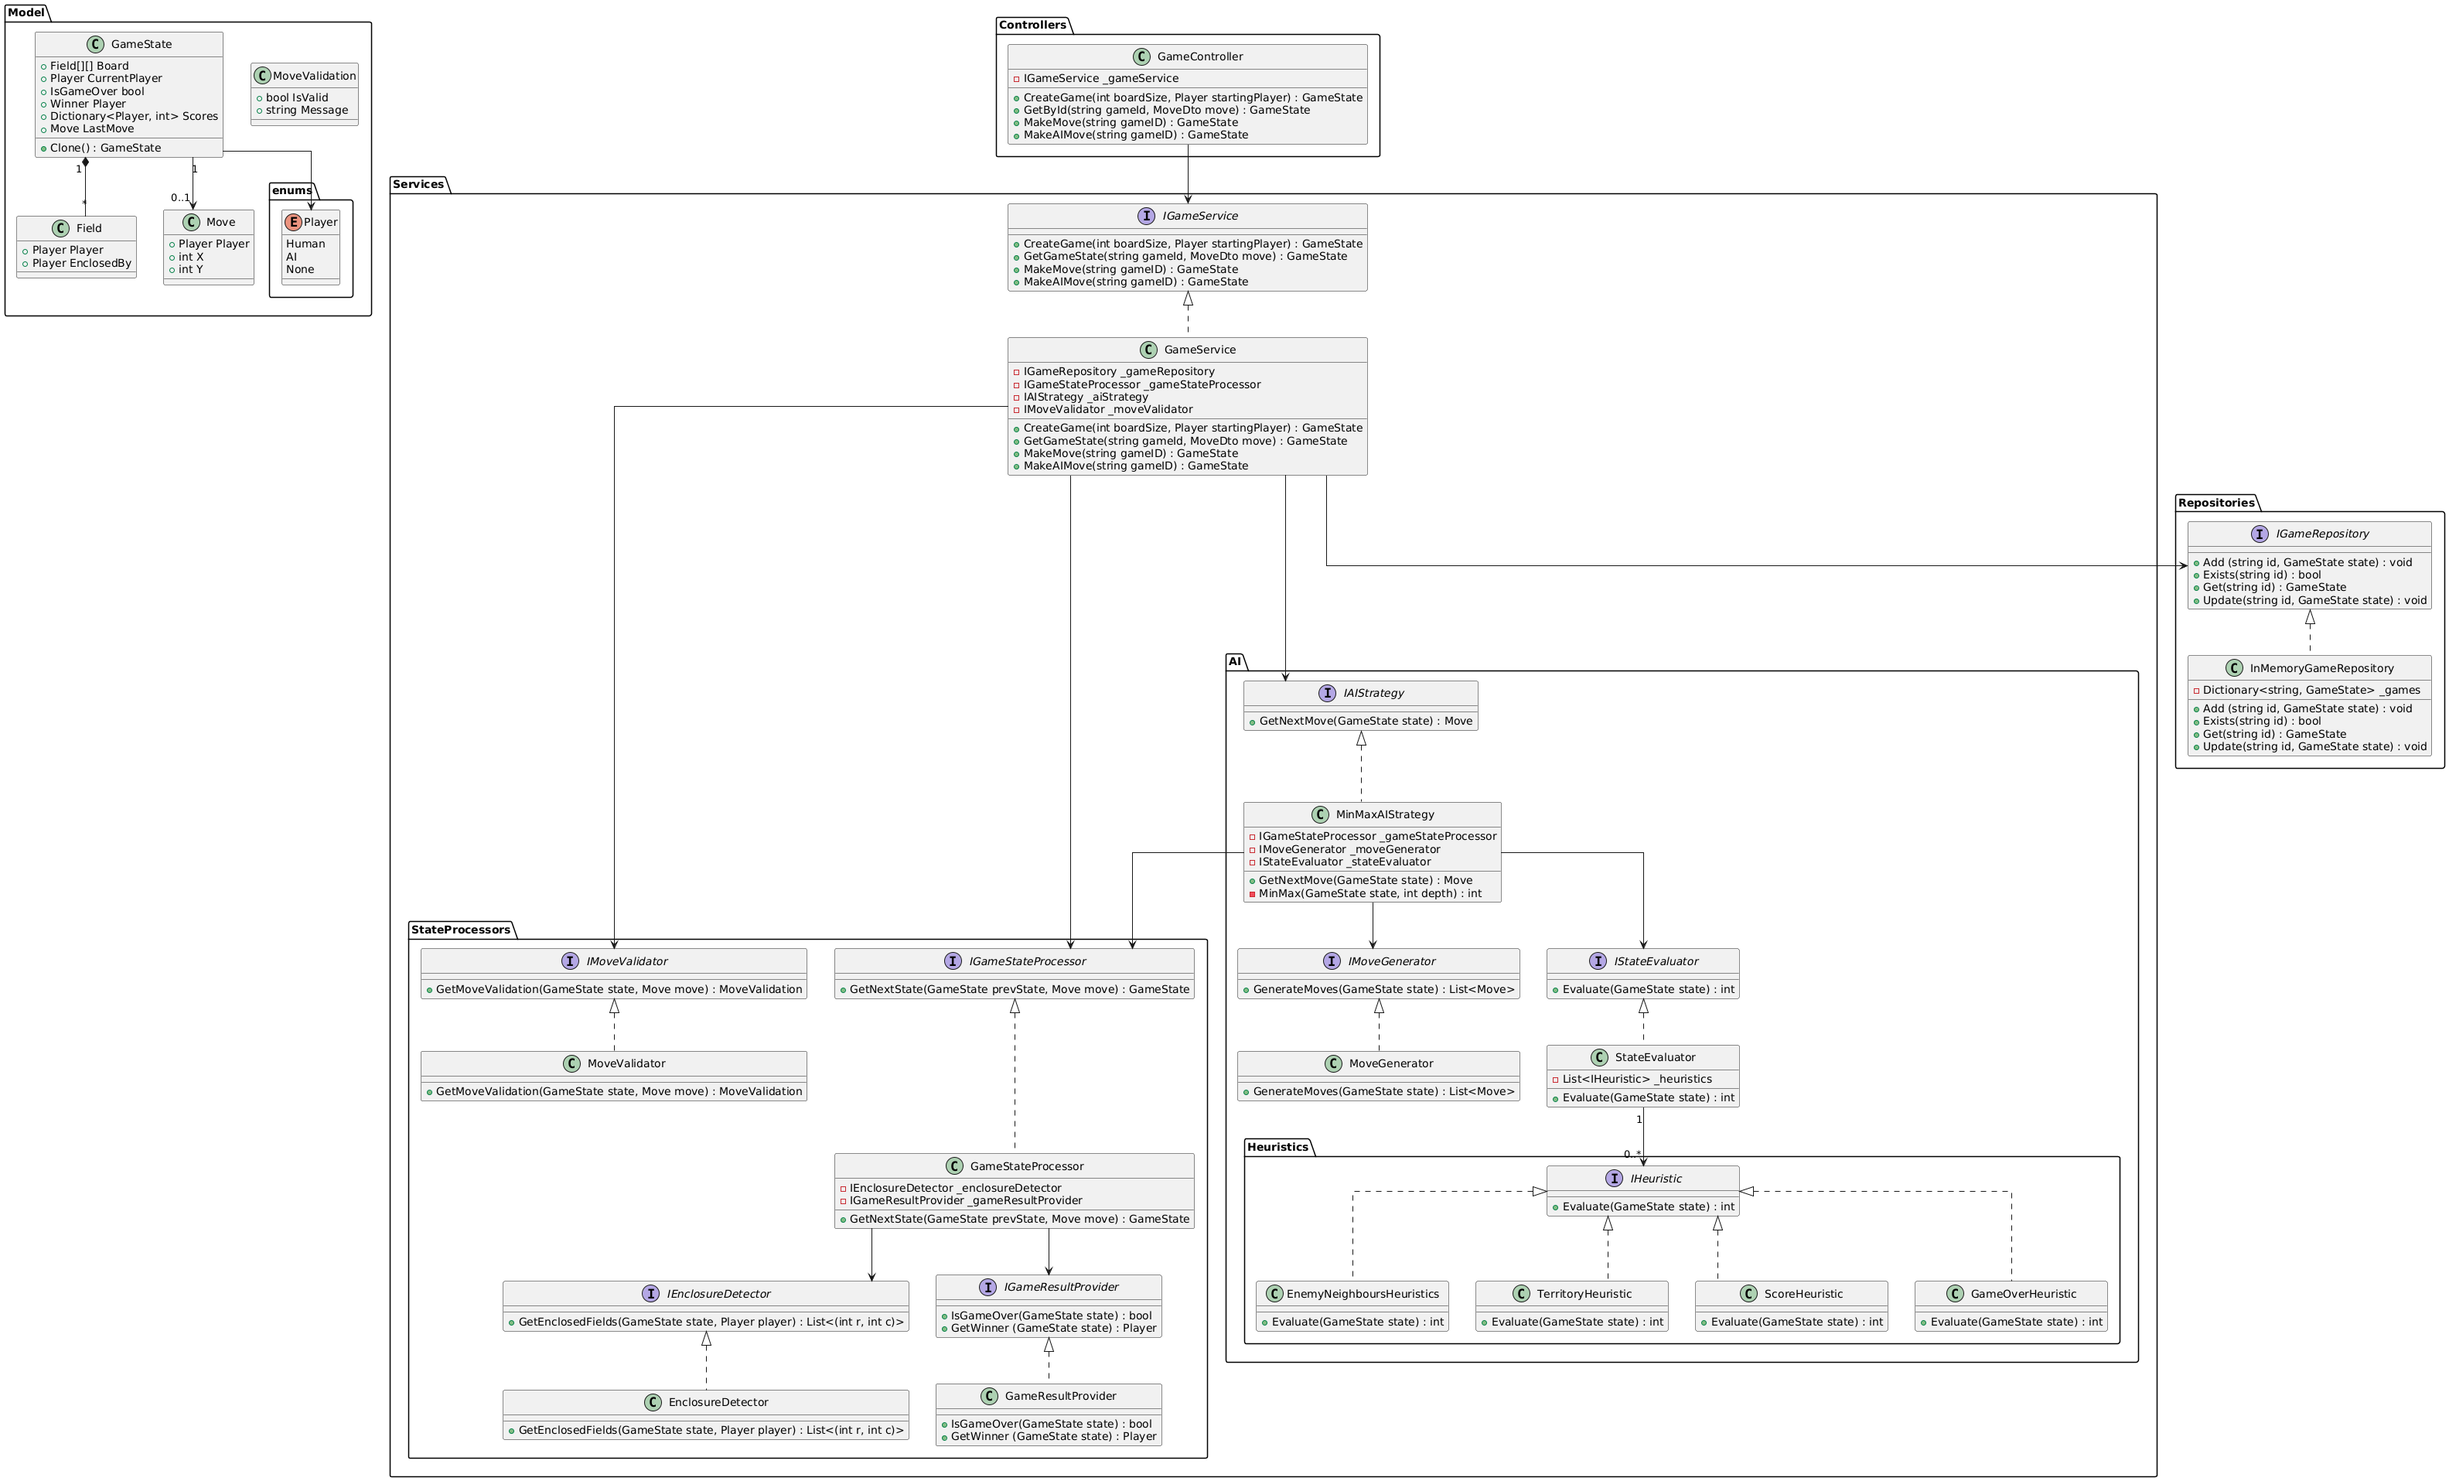
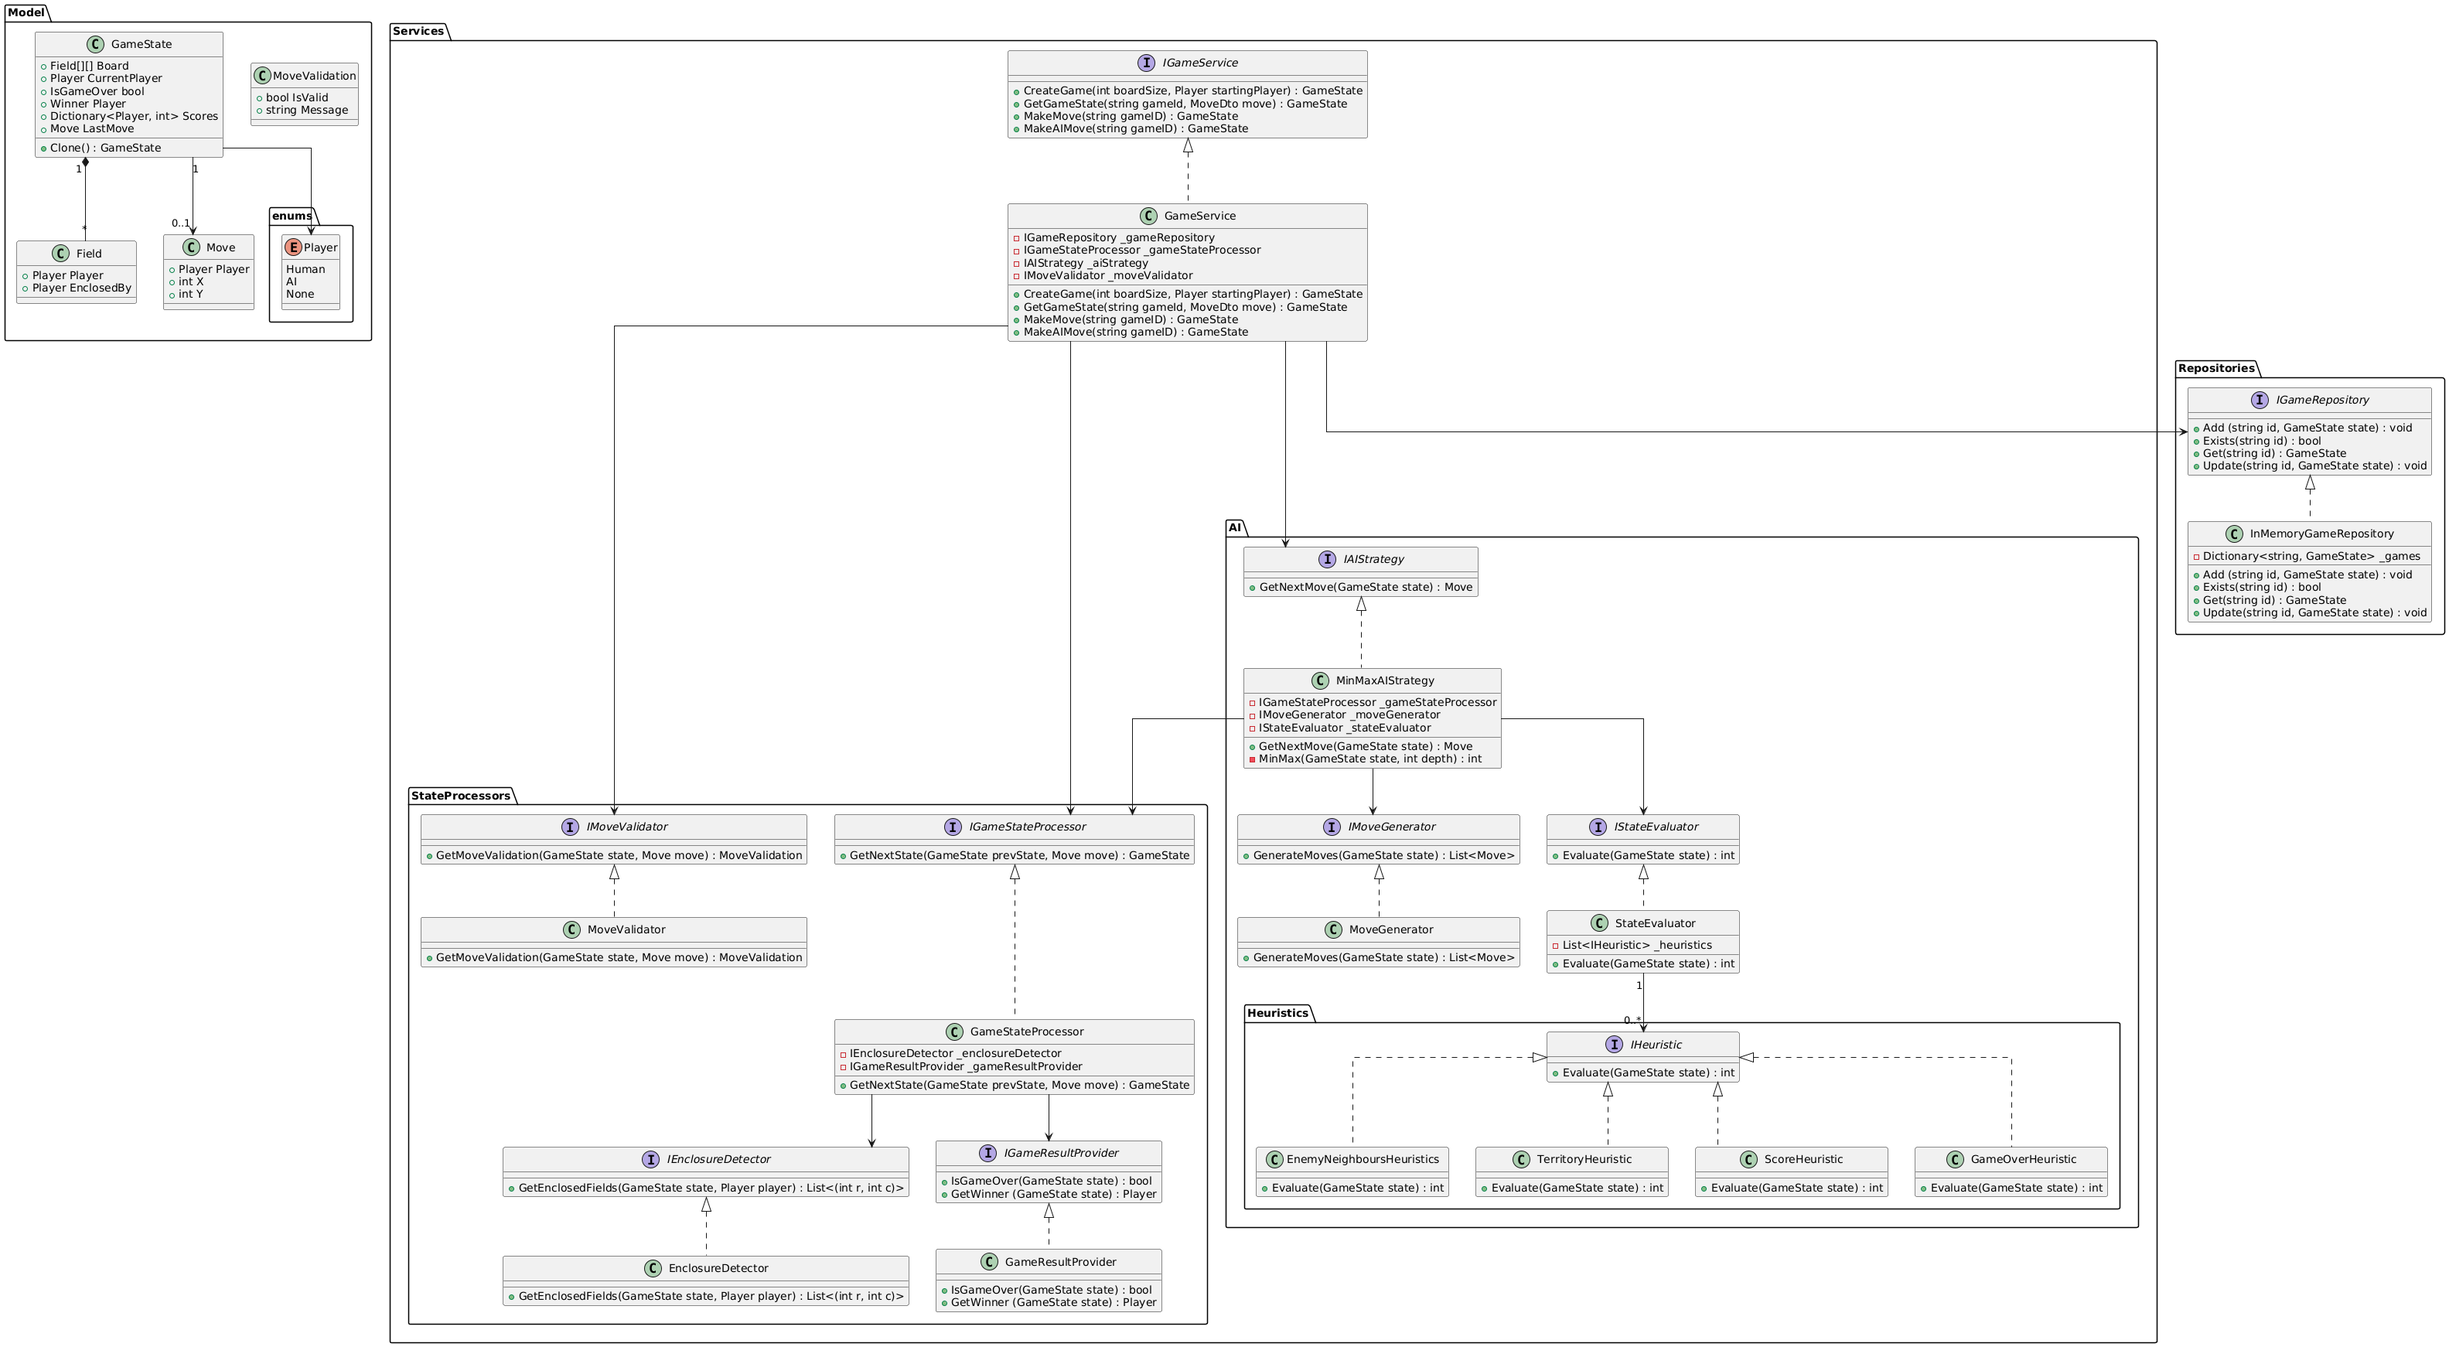
Change to minimal api, remove controller

diff --git a/DotsServer/Program.cs b/DotsServer/Program.cs
@@ -5,17 +5,9 @@ using DotsWebApi.Services.AI;
 using Serilog;
 using DotsWebApi.Services.AI.Heuristics;
 using DotsWebApi.Services.StateProcessors;
+using DotsWebApi.DTO;
 
 var builder = WebApplication.CreateBuilder(args);
-
-builder.Services.AddCors(options =>
-{
-    options.AddPolicy("AllowReact",
-        policy => policy.AllowAnyOrigin()
-                        .AllowAnyMethod()
-                        .AllowAnyHeader());
-});
-
 
 // Configure Serilog
 Log.Logger = new LoggerConfiguration()
@@ -27,9 +19,6 @@ builder.Host.UseSerilog();
 // Add Swagger
 builder.Services.AddEndpointsApiExplorer();
 builder.Services.AddSwaggerGen();
-
-// Add Controllers
-builder.Services.AddControllers();
 
 // Register DI services
 builder.Services.AddSingleton<IGameResultProvider, GameResultProvider>();
@@ -56,9 +45,38 @@ if (app.Environment.IsDevelopment())
     app.UseSwaggerUI(c => c.SwaggerEndpoint("/swagger/v1/swagger.json", "DotsServer API v1"));
 }
 
+//Minimal api endpoints
+
+var gameApi = app.MapGroup("/api/game");
+
+gameApi.MapPost("/new", (int boardSize, IGameService gameService) =>
+{
+    var id = gameService.CreateGame(boardSize);
+    var state = gameService.GetGameState(id);
+    return Results.Created($"/api/game/{id}", state);
+});
+
+gameApi.MapGet("/{id:guid}", (string id, IGameService gameService) =>
+{
+    var state = gameService.GetGameState(id);
+    return Results.Ok(state);
+});
+
+gameApi.MapPut("/{id:guid}/make-move",
+    async (string id, MoveDto move, IGameService gameService) =>
+{
+    var state = await gameService.MakeMoveAsync(id, move);
+    return Results.Ok(state);
+});
+
+gameApi.MapPut("/{id:guid}/make-ai-move",
+    async (string id, IGameService gameService) =>
+{
+    var state = await gameService.MakeAIMoveAsync(id);
+    return Results.Ok(state);
+});
+
 // Configure the HTTP request pipeline.
 app.UseErrorHandlingMiddleware();
-app.UseCors("AllowReact");
-app.MapControllers();
 
 app.Run();
